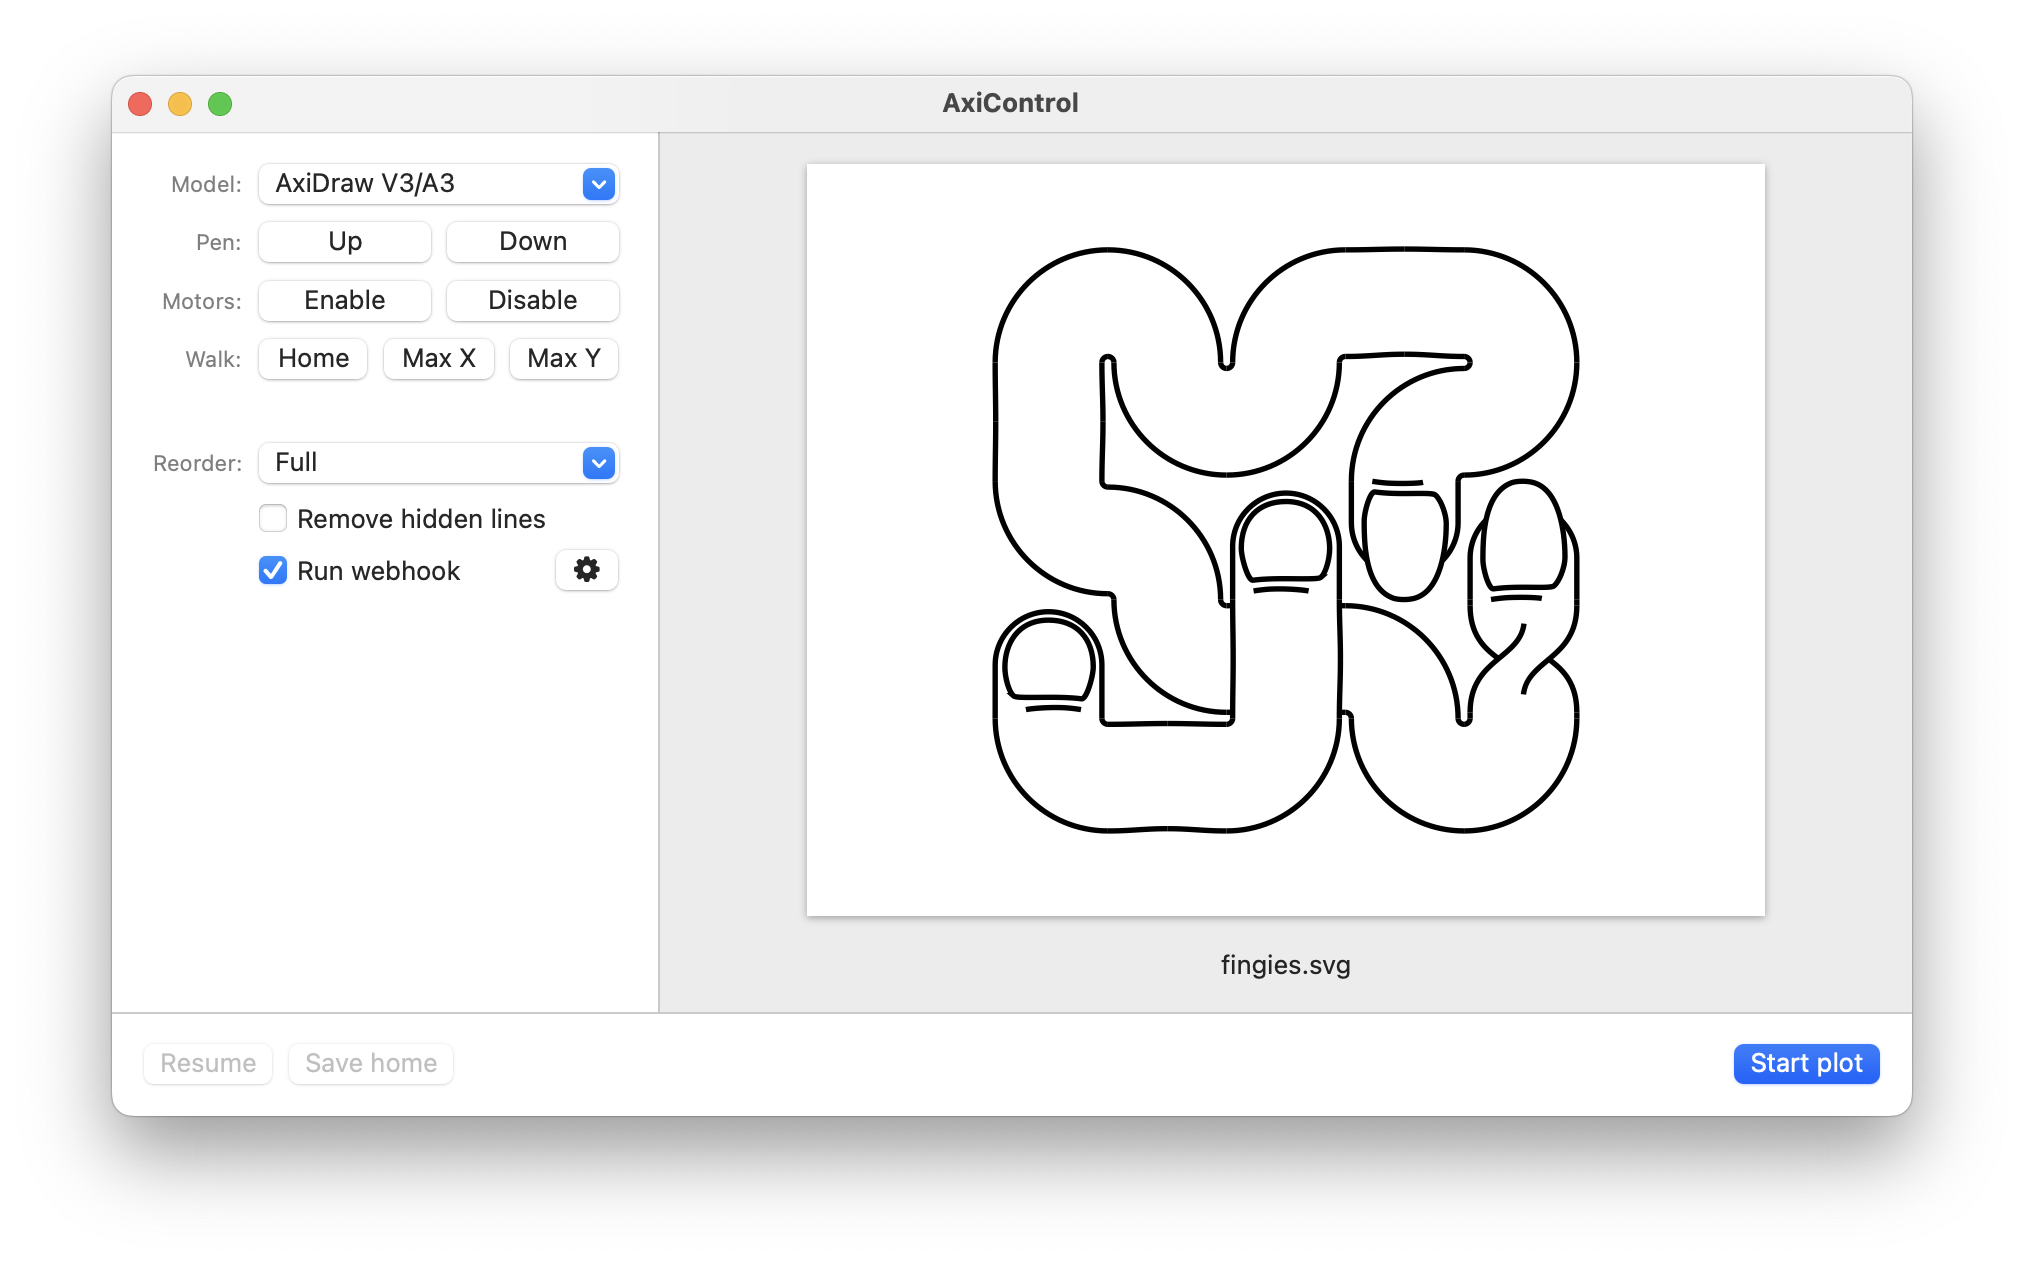
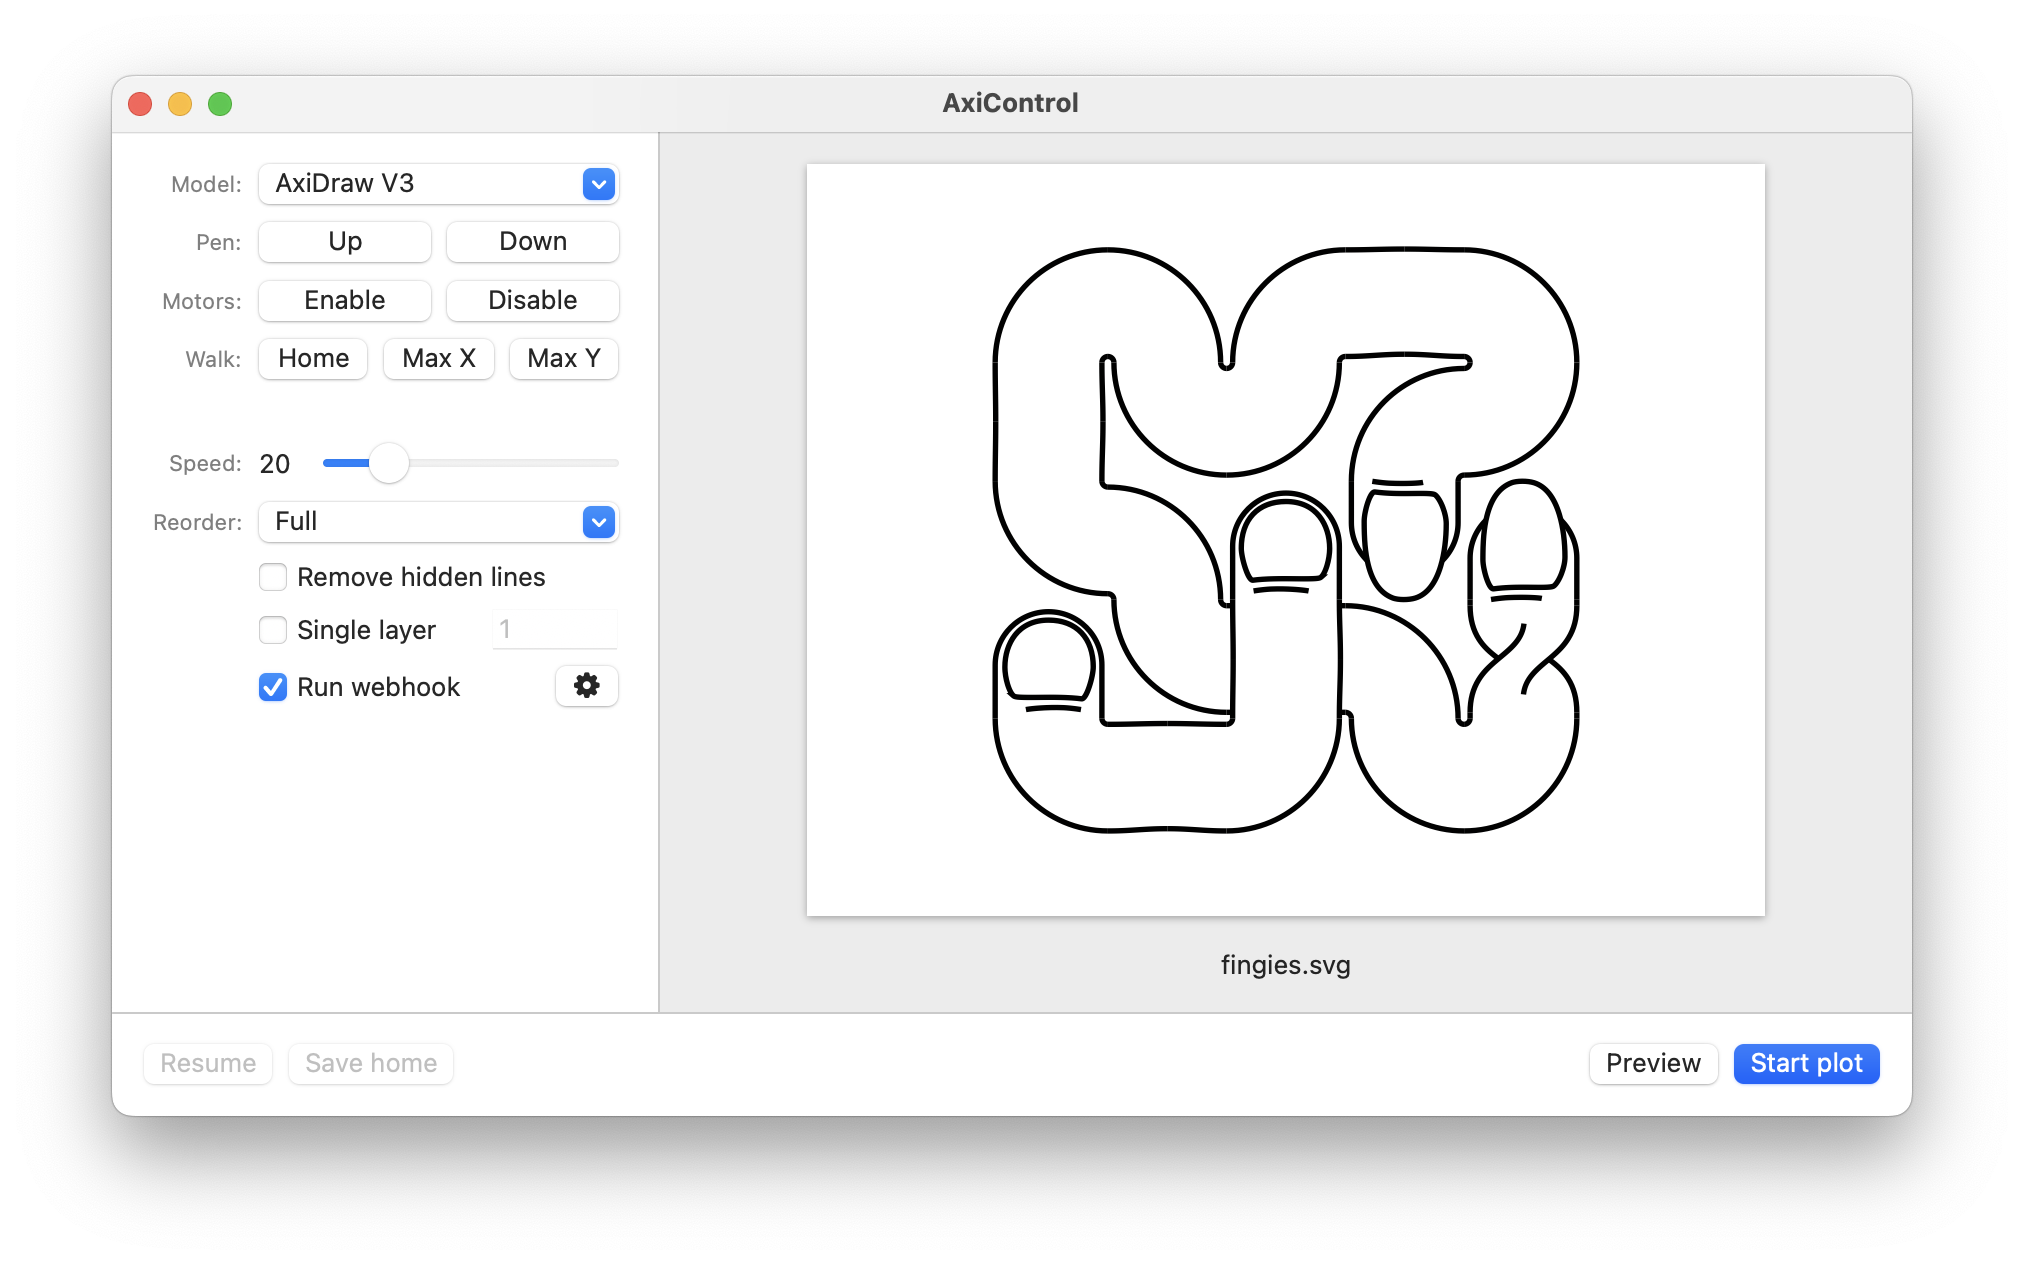
update README

diff --git a/README.md b/README.md
@@ -49,6 +49,17 @@ You can also choose **Save home** when paused. This will move the carriage to th
 
 **Be sure you have your correct AxiDraw model selected**. Otherwise you may damage your device by walking it outside the maximum range.
 
+### Speed control
+
+The Speed slider controls the speed limit for the XY carriage when the pen is down. This value is expressed as a percentage of maximum travel speed.
+
+### Layers control
+
+Specify a number which indicates which layer (or layers) will be plotted when plotting in layers mode. See the [AxiDraw CLI docs](https://www.axidraw.com/doc/cli_api/#layer) for more info.
+
+Note: Layers are not a native feature of SVG. You probably have to create your SVGs in Inkscape to create files with usable layer numbers.  
+See _[Adding layers outside of Inkscape](https://wiki.evilmadscientist.com/AxiDraw_Layer_Control#Adding_layers_outside_of_Inkscape)_ on the EMS wiki.
+
 ### Webhooks
 
 Run a webhook when your plot completes. You can easily set up a webhook at [IFTTT](https://ifttt.com/maker_webhooks) to send you a notification when your plot completes.
